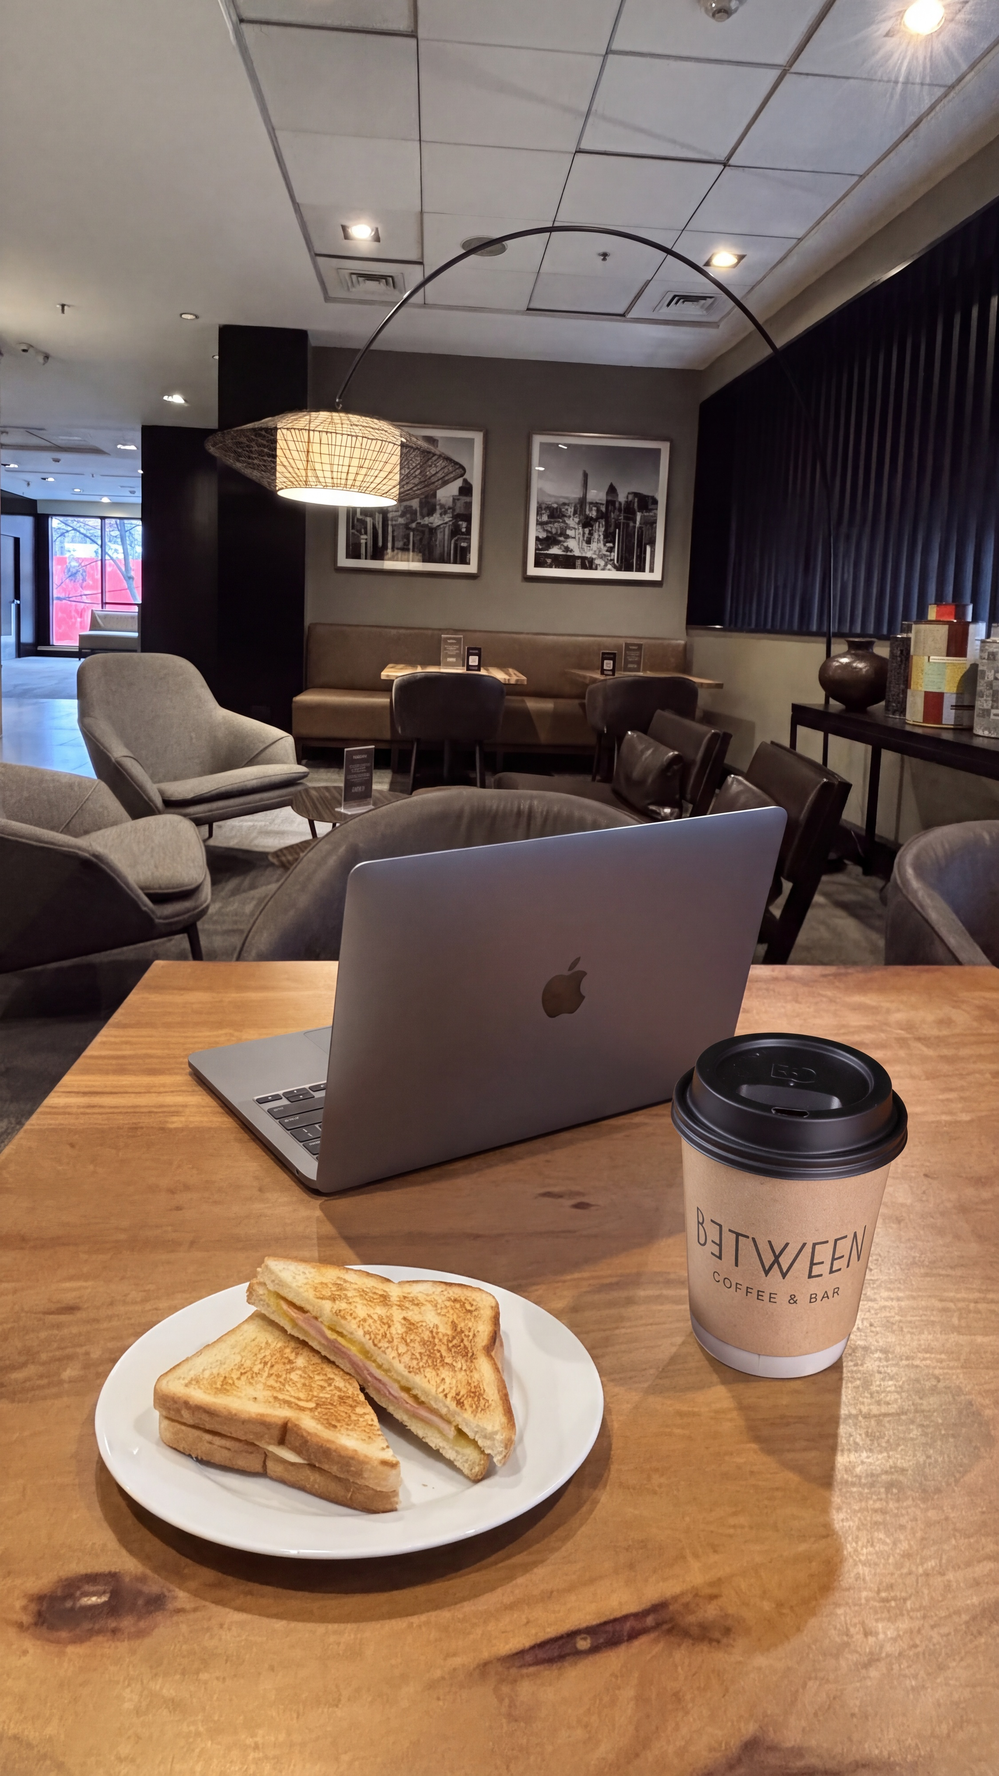
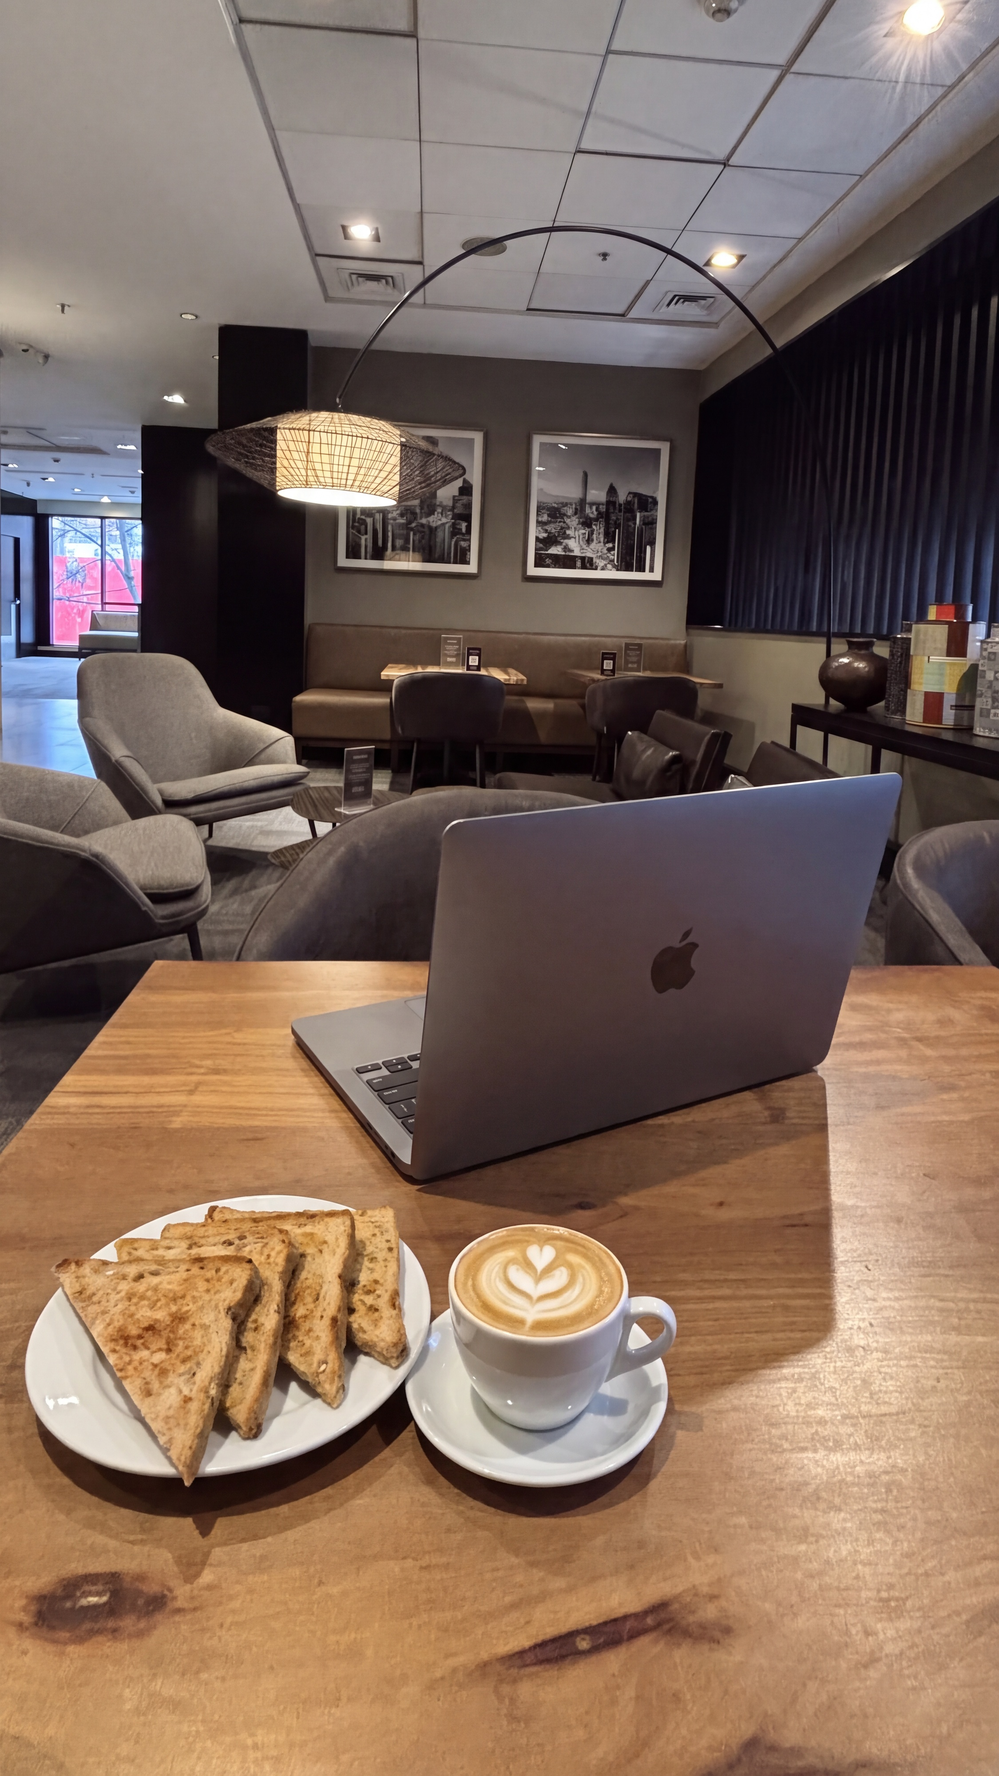
BETWEEN ronda 12: la taza de cappuccino reemplaza al vaso To Go
La ronda 11 quedo APROBADA. Este ajuste es de direccion de arte: «reemplaces el
vaso TOGO por un cafe de taza blanca de capuccino se va a ver mas real. Y que
este mas cerca del plato de sandwiches».

⭐ Y el criterio detras vale para toda la cuenta: EL RECIPIENTE DICE SI EL
CLIENTE SE QUEDA O SE VA. La pieza invita a quedarse a trabajar de 08:00 a 22:00
y un vaso PARA LLEVAR la contradecia. To Go para las piezas de llevar; taza y
platillo para las de quedarse.

En el prompt solo cambiaron la REF3 (taza-cappuccino-nobg.png, el otro recorte
real que ya estaba en el kit) y la posicion, «pegada al plato, casi tocando».
⛔ Y hubo que quitar de las negaciones el «no second cup» de la ronda 11:
prohibia justo lo que se pedia. Al cambiar el objeto principal hay que releer
las negaciones o el prompt se contradice solo.

⭐ Se cae ademas la nota de la ronda 10 que decia que esta taza no servia por
estar fotografiada desde arriba: eso valia para MONTARLA. Como REFERENCIA el
angulo da igual, porque el modelo la redibuja en la perspectiva de la escena.

⚠ El prompt volvio a pasarse del tope (3231) y el assert lo cazo antes de gastar
una corrida; quedo en 2998 sin perder instrucciones.

Se generaron 3 variantes y se eligio la v3: la taza toca el plato y no deja una
cuchara suelta. Entregada 7 140 552 B reemplazando el mismo archivo, el enlace no
cambio. Reproduce byte a byte. Contraste del titular sin cambio (peor tercio
3,03) porque lo que se movio esta debajo del cartel.

diff --git a/src/compositions/hilton/BetweenStS3.tsx b/src/compositions/hilton/BetweenStS3.tsx
@@ -517,6 +517,24 @@ export const StS3Cowork: React.FC<{guia?: boolean}> = ({guia = false}) => (
         Los fondos anteriores quedan versionados para el histórico:
         `st-16-09-cowork.jpg` (generado, ronda 9) · `-real.jpg` (foto sola) ·
         `-real-vaso.jpg` y `-real-laptop.jpg` (los montajes de la ronda 10). */}
+    {/* ⭐ RONDA 12 (10-09-2026) — la ronda 11 quedó APROBADA y esto es un ajuste
+        de dirección de arte: «reemplaces el vaso TOGO por un café de taza blanca de
+        capuccino se va a ver más real. Y que esté más cerca del plato».
+
+        ⭐ **El recipiente dice si el cliente se queda o se va.** La pieza invita a
+        quedarse a trabajar de 08:00 a 22:00 y un vaso PARA LLEVAR la contradecía.
+        To Go para las piezas de llevar; taza y platillo para las de quedarse.
+
+        En el prompt sólo cambiaron la REF3 (`taza-cappuccino-nobg.png`, el otro
+        recorte real del kit) y la posición —«pegada al plato, casi tocando, para
+        que se lean como un solo desayuno servido»—. ⛔ Y hubo que QUITAR de las
+        negaciones el «no second cup» de la ronda 11: prohíbía justo lo que se
+        pedía. Al cambiar el objeto principal hay que releer las negaciones.
+
+        ⭐ Y se cae la nota de la ronda 10 que decía que esta taza «no servía por
+        estar fotografiada desde arriba»: eso valía para MONTARLA. Como REFERENCIA
+        el ángulo da igual, porque el modelo la redibuja en la perspectiva de la
+        escena. */}
     <FotoFondo src={F + 'st-16-09-cowork-escena.jpg'} oscurecer={0.04} />
 
     {/* El lockup en BEIGE: sobre el cielo gris de la foto real el café no se

diff --git a/scripts/between-cowork-r10-artifact.py b/scripts/between-cowork-r10-artifact.py
@@ -29,7 +29,7 @@ RAIZ = Path(__file__).resolve().parent.parent
 SALIDA = RAIZ / "out/hilton/between/ronda10-artifact.html"
 
 FUENTES = {
-    "antes":      (RAIZ / "out/hilton/between/ronda10-antes.jpg", 720),
+    "antes":      (RAIZ / "out/hilton/between/ronda12-antes.jpg", 720),
     "despues":    (RAIZ / "out/hilton/between/st-s3/BW-S3-Cowork.png", 720),
     "refeli":     (RAIZ / "raw/hilton/between/ediciones-ia-eli"
                    / "magnific_agrega-una-laptop-en-la-m_iAi90W63uK.png", 460),
@@ -37,7 +37,8 @@ FUENTES = {
     "crudo":      (RAIZ / "raw/hilton/between/cowork-2do-piso/fotos/IMG_8539.jpg", 360),
     "limpia":     (RAIZ / "out/hilton/between/st-s3/BW-S3-Cowork-sin-vaso.png", 360),
     "montaje":    (RAIZ / "out/hilton/between/ronda11-montaje-rechazado.jpg", 360),
-    "variante":   (RAIZ / "out/hilton/between/ronda11-variante-v2.jpg", 460),
+    "variante":   (RAIZ / "out/hilton/between/ronda12-variante-v1.jpg", 460),
+    "generada":   (RAIZ / "out/hilton/between/ronda10-antes.jpg", 360),
 }
 
 
@@ -204,7 +205,7 @@ def main():
 
     h = []
     a = h.append
-    a("<title>Cowork 16-09 · ronda 11</title>")
+    a("<title>Cowork 16-09 · ronda 12</title>")
     a('<link rel="stylesheet" href="https://fonts.googleapis.com/css2?'
       "family=IBM+Plex+Mono:wght@400;500&"
       "family=Raleway:wght@500;600;700;800&"
@@ -213,28 +214,23 @@ def main():
     a('<div class="env">')
 
     a('<p class="eyebrow">Between · Coffee &amp; Bar — historia del 16 de septiembre</p>')
-    a("<h1>La escena del Cowork, producida entera</h1>")
-    a('<p class="bajada">Columna N de la hoja STORIES, ronda 11. El fondo es el '
-      "segundo piso real de Between, fotografiado por el cliente; el vaso, la "
-      "laptop y el desayuno se agregaron dentro de la escena en vez de pegarse "
-      "encima.</p>")
+    a("<h1>La taza reemplaza al vaso To Go</h1>")
+    a('<p class="bajada">Columna N de la hoja STORIES, ronda 12. La versión anterior '
+      "quedó aprobada; este ajuste cambia el vaso To&nbsp;Go por una taza blanca de "
+      "cappuccino y la acerca al plato.</p>")
 
-    a('<div class="pedido"><div class="quien">Eli · sobre la entrega anterior</div>'
-      "<q>Me parece que el montaje está mal logrado, la foto de fondo original "
-      "debes añadir un vaso togo, un notebook con logo apple, da lo mismo si "
-      "aparece que sea sutil. Un desayuno de sándwich, como se ven en las fotos. "
-      "Hazlo nuevamente y recuerda hacer un buen prompt, en magnific.</q></div>")
-    a('<p class="nota" style="margin:-24px 0 40px;">Y antes, lo que abrió la ronda: '
-      "Scarlette Muñoz sobre <code>STORIES!N</code>, «podemos cambiar la imagen a "
-      "una real de cowork?».</p>")
+    a('<div class="pedido"><div class="quien">Eli · sobre la versión aprobada</div>'
+      "<q>Aprobada la del drive, el resultado quedó mucho mejor. Quiero que "
+      "reemplaces el vaso To Go por un café de taza blanca de capuccino, se va a "
+      "ver más real. Y que esté más cerca del plato de sándwiches.</q></div>")
 
     a('<div class="fila">')
-    a(fig(im["antes"], "Antes", "La escena entera —mesa, taza, croissant, notebook y "
-          "planta— salió de un prompt. No es Between.", hero=True))
+    a(fig(im["antes"], "Antes <em>· la aprobada</em>",
+          "La versión que quedó aprobada, con el vaso To&nbsp;Go y el plato "
+          "separados por un tramo de mesa.", hero=True))
     a(fig(im["despues"], "Después <em>· en Drive</em>",
-          "El segundo piso real. El vaso To&nbsp;Go, la laptop con su manzana y el "
-          "desayuno de sándwich se pintaron dentro de la escena, con su luz y su "
-          "profundidad de campo.", hero=True))
+          "Taza blanca de cappuccino con arte latte, sobre su platillo y pegada al "
+          "plato: los dos se leen como un solo desayuno servido.", hero=True))
     a("</div>")
 
     a("<h2>Tu edición de Magnific fue la referencia</h2>")
@@ -254,27 +250,29 @@ def main():
 
     a("<h2>El camino</h2>")
     a('<div class="fila tres">')
-    a(fig(im["crudo"], "El material", "IMG_8539 tal como salió del teléfono. Al "
-          "reencuadrar se le quitó techo: el cielo de la sala es lo peor de la toma.",
-          paso="01"))
-    a(fig(im["limpia"], "Sólo la foto", "La mesa queda vacía y la mitad de abajo es "
-          "una tabla sin nada. El manual §4 pide mesa servida.", paso="02"))
+    a(fig(im["generada"], "Todo generado", "La pieza que estaba en Drive: la escena "
+          "entera salió de un prompt y no era Between. Es lo que Scarlette mandó a "
+          "cambiar por una foto real.", paso="01"))
+    a(fig(im["limpia"], "Sólo la foto real", "El segundo piso de Between. La mesa "
+          "queda vacía y la mitad de abajo es una tabla sin nada.", paso="02"))
     a(fig(im["montaje"], "El montaje, descartado", "Aquí el vaso se pegaba encima con "
           "el script de montaje. Se veía pegado, y es lo que mandaste a rehacer.",
           paso="03"))
     a("</div>")
 
-    a("<h2>La otra variante, por si prefieres ese desayuno</h2>")
-    a('<p class="nota">Se generaron tres. Elegí la del sándwich: los cuatro '
-      "triángulos de la otra salen algo secos y repetidos, y acá el vaso queda más "
-      "legible. Pero el desayuno es decisión tuya y cambiarlo es una línea.</p>")
+    a("<h2>La otra variante</h2>")
+    a('<p class="nota">Se generaron tres con el mismo prompt. Elegí ésta porque la '
+      "taza queda <strong>tocando el plato</strong>, que es lo que pediste, y "
+      "porque no deja una cuchara suelta sobre la mesa. La alternativa trae plato "
+      "cuadrado —más parecido al de las fotos de desayuno del cliente— pero la taza "
+      "queda separada.</p>")
     a('<div class="fila">')
-    a(fig(im["variante"], "Variante · triángulos de tostada",
-          "Es más literal respecto de las fotos de desayuno del cliente, que sirven "
-          "los triángulos en abanico sobre plato blanco."))
+    a(fig(im["variante"], "Variante · plato cuadrado",
+          "Plato cuadrado y cuchara sobre la mesa. La taza queda a un tramo del "
+          "plato, no pegada."))
     a(fig(im["fondo"], "La elegida, sin texto",
-          "El fondo tal como quedó: sándwich tostado, el vaso con su logotipo y la "
-          "laptop con la manzana apenas sugerida."))
+          "El fondo tal como quedó: plato redondo, taza y platillo tocándolo, y la "
+          "laptop detrás."))
     a("</div>")
 
     a("<h2>Por qué esta foto y no otra de las 91</h2>")
@@ -298,17 +296,17 @@ def main():
     a('<p class="nota">Toda la geometría del titular está calibrada contra la foto '
       "vieja, así que cambiar la foto podía obligar a rehacerla. Medido el beige "
       "<code>#fff9eb</code> en las filas donde va el texto, pasa lo contrario: "
-      "<strong>mejora</strong>. El peor tercio sube de 2,08 a 3,02 y el resto del "
+      "<strong>mejora</strong>. El peor tercio sube de 2,08 a 3,03 y el resto del "
       "bloque va entre 3,4 y 17,6, así que <strong>no se movió ninguna "
       "medida</strong>.</p>")
     a('<div class="tabla-envoltura"><table>'
       "<tr><th>y</th><th>tercio</th><th>foto generada</th><th>foto real</th></tr>")
-    for y, ter, viejo, nuevo in [("200", "centro", "2,17", "3,02"),
+    for y, ter, viejo, nuevo in [("200", "centro", "2,17", "3,03"),
                                  ("300", "izquierdo", "2,08", "3,42"),
                                  ("400", "izquierdo", "2,08", "5,58"),
-                                 ("400", "centro", "2,12", "10,49"),
+                                 ("400", "centro", "2,12", "10,56"),
                                  ("470", "izquierdo", "2,10", "3,75"),
-                                 ("540", "centro", "2,30", "6,30")]:
+                                 ("540", "centro", "2,30", "6,38")]:
         a('<tr><td class="n">%s</td><td>%s</td><td class="n baja">%s</td>'
           '<td class="n sube">%s</td></tr>' % (y, ter, viejo, nuevo))
     a("</table></div>")
@@ -362,16 +360,17 @@ def main():
       "el cliente no tiene ningún notebook fotografiado ahí: los únicos fotogramas "
       "con notebook son del lounge del hotel, con caras reconocibles y en otro "
       "espacio. Con esa foto, esta pieza dejaría de necesitar el paso de IA.</p>"
-      "<p><strong>El QA marca cuatro avisos y los cuatro son falsos positivos</strong>, "
-      "verificado imprimiendo dónde están los píxeles: son <strong>29 píxeles</strong> "
-      "del foco del cielo en la primera fila de la imagen, y en los otros tres bordes "
-      "hay <strong>cero</strong>. Van <strong>cinco piezas seguidas</strong> con el "
+      "<p><strong>El QA marca tres avisos y los tres son falsos positivos</strong>, "
+      "verificado imprimiendo dónde están los píxeles: <strong>43 píxeles</strong> "
+      "del borde blanco del plato junto al canto izquierdo y <strong>17</strong> del "
+      "foco del cielo; en el borde derecho y abajo, <strong>cero</strong>. Van "
+      "<strong>seis piezas seguidas</strong> con el "
       "mismo defecto: al script le falta distinguir un brillo de foto de un trazo de "
       "letra.</p></div>")
 
     a('<div class="cierre">')
     for k, v in [("Entrega", "2250 × 4000 · 150 ppp"),
-                 ("Peso", "7 350 797 B"),
+                 ("Peso", "7 140 552 B"),
                  ("En Drive", "mismo archivo · el enlace no cambió"),
                  ("Reproducible", "byte a byte (cmp)")]:
         a('<div class="dato"><div class="k">%s</div><div class="v">%s</div></div>' % (k, v))

diff --git a/scripts/between-cowork-escena-ia.py b/scripts/between-cowork-escena-ia.py
@@ -58,12 +58,12 @@ except Exception:
     pass
 
 RAIZ = Path(__file__).resolve().parent.parent
-SALIDA = RAIZ / "out/hilton/between/ia-cowork-escena"
+SALIDA = RAIZ / "out/hilton/between/ia-cowork-taza"
 
 REFS = [
     RAIZ / "public/assets/hilton/between/st-s3/st-16-09-cowork-real.jpg",
     RAIZ / "raw/hilton/between/ediciones-ia-eli/magnific_agrega-una-laptop-en-la-m_iAi90W63uK.png",
-    RAIZ / "public/assets/hilton/between/togo-vaso-real-nobg.png",
+    RAIZ / "public/assets/hilton/between/taza-cappuccino-nobg.png",
     RAIZ / "raw/hilton/between/desayunos-ago2026/DSC_0823.jpg",
 ]
 
@@ -88,8 +88,8 @@ REFERENCIAS = (
     "of the Between coffee bar, shot from a seat at a wooden table. REF2 shows how "
     "this brand photographs a working table (laptop, cup and food on wood, warm "
     "light, shallow depth of field) - copy only its treatment and object scale. "
-    "REF3 is the brand's real takeaway cup: kraft body, matte black dome lid, the "
-    "wordmark BETWEEN above smaller COFFEE & BAR in a thin dark sans-serif; "
+    "REF3 is the brand's real cappuccino: a plain white ceramic cup on a matching "
+    "white saucer, with latte art on the crema and a spoon on the saucer; "
     "reproduce it faithfully. REF4 is a real Between breakfast: toasted sandwich "
     "triangles on a white plate. "
 )
@@ -97,11 +97,11 @@ REFERENCIAS = (
 CONSERVAR = (
     "KEEP REF1 EXACTLY. Do not change framing, crop, camera angle, perspective or "
     "focal length. Do not redraw or move the ceiling, the downlights, the arched "
-    "floor lamp with its woven shade, the framed black-and-white city photographs, "
+    "floor lamp with its woven shade, the framed city photographs, "
     "the dark slat wall, the grey armchairs, the tan banquette, the console, the "
     "carpet or the table. Keep the exact wood grain, colour, knots and sheen of the "
     "table top, and the existing lighting, white balance, contrast and background "
-    "blur. It must read as the same photograph with objects that were always there. "
+    "blur. It must read as the same photograph. "
 )
 
 AGREGAR = (
@@ -112,37 +112,38 @@ AGREGAR = (
     "three-quarter view so the back of the lid faces the camera, with a small "
     "subtle dark apple-shaped logo centred on the lid - understated, not bright, "
     "not enlarged. No screen interface, no text. "
-    "(b) THE BETWEEN CUP from REF3, right of the laptop and closer to camera, "
-    "upright: kraft cup, matte black dome lid, BETWEEN and COFFEE & BAR legible and "
-    "correctly spelled at a natural size. "
-    "(c) A BREAKFAST PLATE from REF4, in front of the laptop and slightly left: a "
+    "(b) A BREAKFAST PLATE from REF4, in front of the laptop and slightly left: a "
     "white plate with toasted sandwich triangles, appetising, seen from the same "
     "low table-level angle. "
+    "(c) THE WHITE CAPPUCCINO from REF3, on its white saucer, standing on the table "
+    "IMMEDIATELY BESIDE THE PLATE, just to its right and almost touching it, so "
+    "plate and cup read as one breakfast served together. Same angle, latte art "
+    "visible on the crema. "
 )
 
 LUZ = (
     "LIGHT: the warm interior light comes from the RIGHT - measured on the table, "
     "the right side is brighter. Light every added object from the right, brighter "
     "edge on the right, soft contact shadow falling LEFT and slightly toward the "
-    "camera. Match the warm indoor white balance, and the grain and softness of the "
-    "photograph: the objects must not look sharper or cleaner than the wood. "
+    "camera. Match the room's white balance and the grain of the photograph: "
+    "nothing may look sharper than the wood. "
 )
 
 COMPOSICION = (
     "COMPOSITION: all three objects sit in the LOWER HALF of the vertical frame, "
-    "below the middle line, as a loose triangle with clear wood between and around "
-    "them; they must not touch. The UPPER HALF stays completely untouched and free "
-    "of new objects - graphic text goes there. Keep the near bottom edge of the "
-    "table mostly empty. "
+    "below the middle line. The plate and the cup go TOGETHER as one served pair, "
+    "side by side and close; the laptop sits behind them with clear wood between. "
+    "The UPPER HALF stays completely untouched and free of new objects - graphic "
+    "text goes there. Keep the near table edge mostly empty. "
 )
 
 NEGATIVO = (
-    "Do not add people, hands, phones, sunglasses, cables, plants, mugs or extra "
-    "cups. No brand name, sign or watermark anywhere except the BETWEEN wordmark "
-    "on the cup. No captions. Do not import "
+    "No people, hands, phones, sunglasses, cables, plants, takeaway cups or a second "
+    "cup. No brand name, sign, logo or watermark anywhere except the "
+    "small apple on the laptop lid. No captions. Do not import "
     "backgrounds from the other references: ignore REF2's foliage, brownie, phone "
     "and sunglasses, and REF4's marble table, ham, cheese and avocado. "
-    "Photorealistic, one coherent photograph."
+    "Photorealistic, one coherent photo."
 )
 
 PROMPT = REFERENCIAS + CONSERVAR + AGREGAR + LUZ + COMPOSICION + NEGATIVO

diff --git a/clients/hilton/CLAUDE.md b/clients/hilton/CLAUDE.md
@@ -6796,3 +6796,86 @@ cambiarla es una línea.
 
 > ⚠ Sigue en pie lo único que dejaría de necesitar el paso de IA: **una foto
 > real de alguien trabajando en el cowork**.
+
+---
+
+# S3 · RONDA 12 (10-09-2026) — LA TAZA REEMPLAZA AL VASO TO GO
+
+La ronda 11 quedó **APROBADA** («aprobada la del drive, el resultado quedó mucho
+mejor»). Este ajuste es de dirección de arte, no de corrección:
+
+> «quiero que reemplaces el vaso TOGO por un café de taza blanca de capuccino se
+> va a ver más real. Y que esté más cerca del plato de sándwiches.»
+
+## 1. ⭐ EL VASO TO GO CONTRADECÍA LA PIEZA, Y ELI LO VIO ANTES QUE NADIE
+
+Vale la pena dejarlo escrito porque es criterio, no gusto: **la pieza invita a
+quedarse a trabajar** —«Ven a trabajar desde Between. Tenemos una mesa para ti»,
+de 08:00 a 22:00— y un vaso **para llevar** dice lo contrario. La taza de loza
+sobre su platillo es la de alguien que se sentó.
+
+**La regla:** el recipiente del café dice si el cliente se queda o se va. To Go
+para las piezas de llevar; **taza y platillo para las de quedarse**.
+
+## 2. Los dos cambios del prompt, y nada más
+
+Sólo se tocaron la referencia 3 y la posición. El resto —lo que no se toca, la
+luz, el marco, las negaciones— quedó igual, que es la ventaja de tener el prompt
+por bloques en `scripts/between-cowork-escena-ia.py`:
+
+- **REF3** pasa de `togo-vaso-real-nobg.png` a **`taza-cappuccino-nobg.png`**, el
+  otro recorte real que ya estaba en el kit. Descrito como «taza blanca de loza
+  sobre su platillo, con arte latte en la crema y una cuchara en el platillo».
+- La posición pasa a **«IMMEDIATELY BESIDE THE PLATE, just to its right and almost
+  touching it, so plate and cup read as one breakfast served together»**, y en el
+  bloque de composición el par plato + taza va **junto**, con la laptop detrás.
+
+> ⛔ Y hubo que **quitar de las negaciones** el «no second cup / no mugs» que traía
+> la ronda 11: estaba escrito para impedir tazas cuando el protagonista era el
+> vaso, y ahora prohibía justo lo que se pedía. **Al cambiar el objeto principal
+> hay que releer las negaciones**, o el prompt se contradice solo.
+
+⚠ Y el prompt volvió a pasarse del tope: **3231** caracteres. Se recortó a 2998
+sin perder ninguna instrucción (frases más cortas, no menos reglas). El `assert`
+del script lo cazó antes de gastar una corrida.
+
+## 3. ⭐ LA PERSPECTIVA DEL RECORTE YA NO IMPORTA — y eso invalida una nota de la ronda 10
+
+La §6 de la ronda 10 dice que la taza de cappuccino **no servía** porque está
+fotografiada **desde arriba** y la mesa está a la altura del ojo: montarla
+delataba el montaje sola.
+
+**Eso valía para el montaje a mano.** Como referencia de IA el ángulo del recorte
+da igual: el modelo **redibuja el objeto en la perspectiva de la escena** y sólo
+toma de la referencia el material, el color y la forma. La misma taza que era
+inservible para pegar es perfecta para referenciar.
+
+> **La regla:** para MONTAR, el ángulo de cámara del recorte tiene que calzar. Para
+> REFERENCIAR, no.
+
+## 4. Las tres variantes
+
+| | Plato | Taza | Veredicto |
+|---|---|---|---|
+| **v3** | redondo, 3 triángulos | **tocando el plato**, sin cuchara suelta | **elegida** |
+| v1 | cuadrado (más fiel a las fotos del cliente) | separada del plato, cuchara suelta sobre la mesa | alternativa |
+| v2 | rectangular grande | sobredimensionada respecto del plato | descartada |
+
+Se eligió la **v3** porque cumple literalmente lo pedido —la taza toca el plato— y
+porque no deja la cuchara suelta. La v1 queda ofrecida en el HTML: su plato
+cuadrado se parece más al de `DSC_0823`, pero la taza queda a un tramo.
+
+## 5. Estado de la pieza
+
+- Fondo: `st-16-09-cowork-escena.jpg` (reemplazado por la v3 de esta ronda).
+- Entrega **7 140 552 B**, 2250 × 4000 a 150 ppp, reemplazando el mismo archivo
+  `1lAgqPkkA25L4VRlnIg9UayWPdZxDuqwk` — **el enlace no cambió**. Verificado por
+  `fileSize` y `parentId`.
+- Reproduce **byte a byte** (`cmp`).
+- Contraste del titular **sin cambio**: el peor tercio queda en **3,03** (era 3,02),
+  porque lo que se movió está debajo del cartel.
+- `between-qa.py`: tres avisos, los tres falsos positivos — **43 píxeles** del
+  borde blanco del plato junto al canto izquierdo y **17** del foco del cielo;
+  cero a la derecha y abajo. **Sexta pieza seguida** con el mismo defecto: el
+  script cuenta como texto cualquier blanco de marca con un borde oscuro cerca, y
+  ahora también la loza. Ya conviene arreglarlo.
